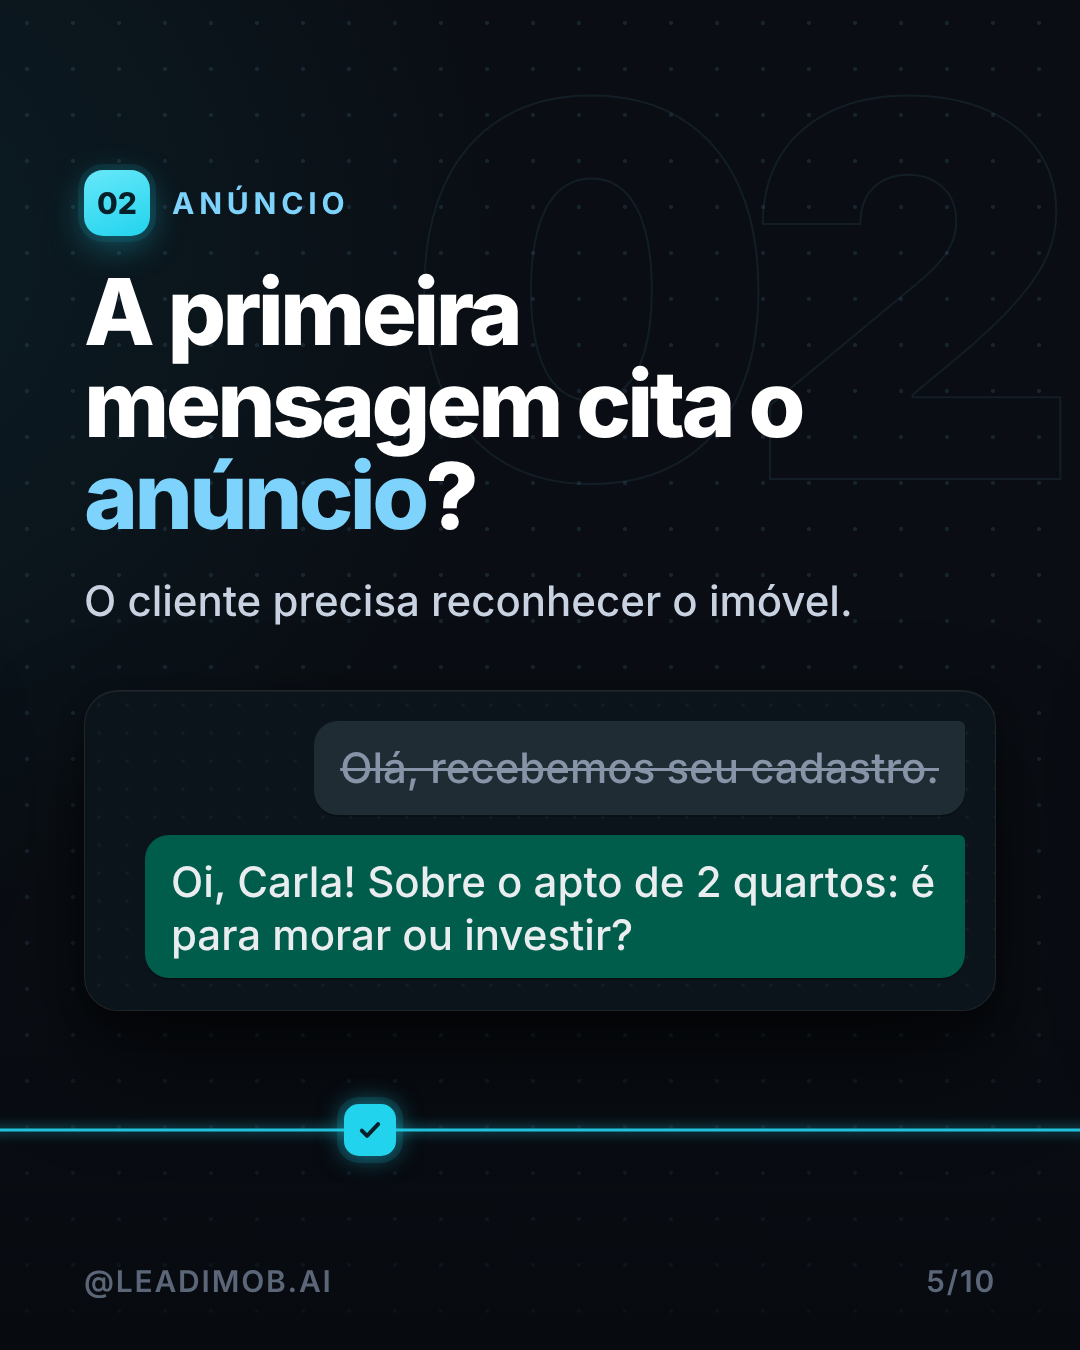
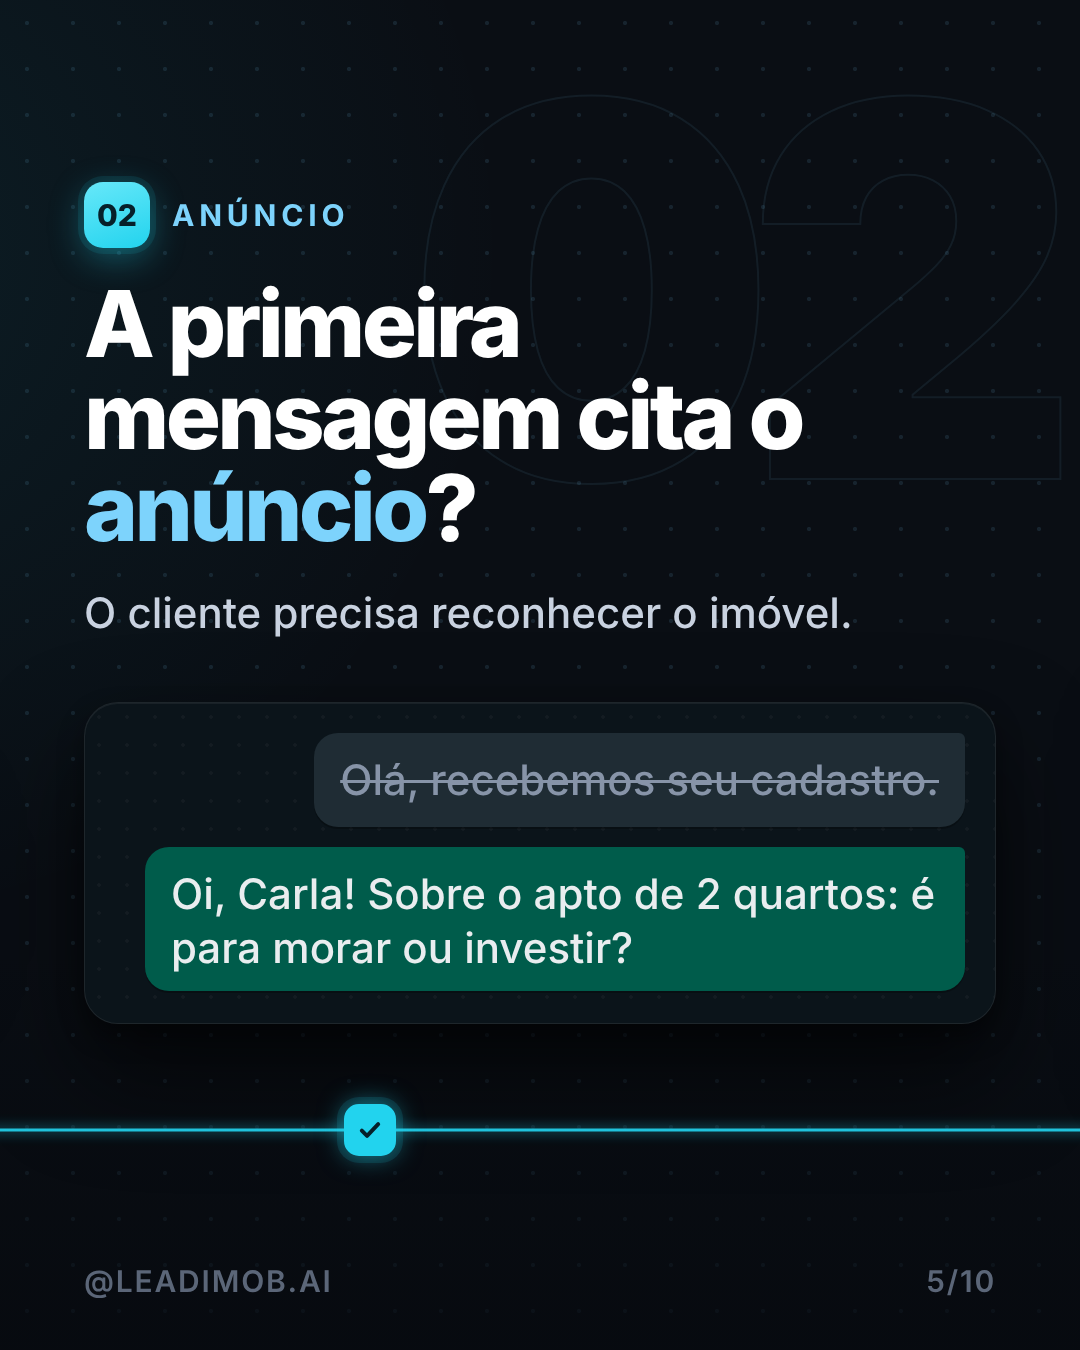
10/10: carrossel centralizado (em crítica final)
Claude-Session: https://claude.ai/code/session_016a8cwUDTswJAyhXi9pdNNX

Changed region(s): [[0.1222, 0.5289, 0.8861, 0.7467], [0.0611, 0.1244, 0.7639, 0.4044], [0.0611, 0.4356, 0.7944, 0.4667]]

diff --git a/instagram/2026-10-10/src/c1-index.html b/instagram/2026-10-10/src/c1-index.html
@@ -189,7 +189,7 @@ body{background:#0A0E14;width:10800px;height:1350px;overflow:hidden;font-family:
  <div class="foot"><span>@LEADIMOB.AI</span><span>3/10</span></div></div>
 
 <!-- 4 checagem 1 -->
-<div class="sl" style="left:3240px;justify-content:flex-start;padding-top:170px"><div class="ghost" style="-webkit-text-stroke-color:rgba(125,211,252,.08)">01</div>
+<div class="sl" style="left:3240px;padding:96px 84px 240px"><div class="ghost" style="-webkit-text-stroke-color:rgba(125,211,252,.08)">01</div>
  <div class="ttl"><div class="num">01</div><div class="kick">aviso</div></div>
  <div class="h2">Alguém fica sabendo <span class="hl">na hora</span>?</div>
  <div class="p">Formulário enviado vira aviso no celular, não planilha para baixar depois.</div>
@@ -202,7 +202,7 @@ body{background:#0A0E14;width:10800px;height:1350px;overflow:hidden;font-family:
 <div class="gate" style="left:3440px"><i><svg width="28" height="28" viewBox="0 0 24 24"><path d="M5 12.500l4.500 4.500L19 7" stroke="#06202A" stroke-width="3.4" fill="none" stroke-linecap="round" stroke-linejoin="round"/></svg></i></div>
 
 <!-- 5 checagem 2 -->
-<div class="sl" style="left:4320px;justify-content:flex-start;padding-top:170px"><div class="ghost" style="-webkit-text-stroke-color:rgba(125,211,252,.08)">02</div>
+<div class="sl" style="left:4320px;padding:96px 84px 240px"><div class="ghost" style="-webkit-text-stroke-color:rgba(125,211,252,.08)">02</div>
  <div class="ttl"><div class="num">02</div><div class="kick">anúncio</div></div>
  <div class="h2">A primeira mensagem cita o <span class="hl">anúncio</span>?</div>
  <div class="p">O cliente precisa reconhecer o imóvel.</div>
@@ -214,7 +214,7 @@ body{background:#0A0E14;width:10800px;height:1350px;overflow:hidden;font-family:
 <div class="gate" style="left:4690px"><i><svg width="28" height="28" viewBox="0 0 24 24"><path d="M5 12.500l4.500 4.500L19 7" stroke="#06202A" stroke-width="3.4" fill="none" stroke-linecap="round" stroke-linejoin="round"/></svg></i></div>
 
 <!-- 6 checagem 3 -->
-<div class="sl" style="left:5400px;justify-content:flex-start;padding-top:170px"><div class="ghost" style="-webkit-text-stroke-color:rgba(125,211,252,.08)">03</div>
+<div class="sl" style="left:5400px;padding:96px 84px 240px"><div class="ghost" style="-webkit-text-stroke-color:rgba(125,211,252,.08)">03</div>
  <div class="ttl"><div class="num">03</div><div class="kick">horário</div></div>
  <div class="h2">Alguém responde às <span class="hl">22h</span>?</div>
  <div class="p">O formulário chega quando o cliente tem tempo: à noite, no fim de semana.</div>
@@ -228,7 +228,7 @@ body{background:#0A0E14;width:10800px;height:1350px;overflow:hidden;font-family:
 <div class="gate" style="left:5940px"><i><svg width="28" height="28" viewBox="0 0 24 24"><path d="M5 12.500l4.500 4.500L19 7" stroke="#06202A" stroke-width="3.4" fill="none" stroke-linecap="round" stroke-linejoin="round"/></svg></i></div>
 
 <!-- 7 checagem 4 -->
-<div class="sl" style="left:6480px;justify-content:flex-start;padding-top:170px"><div class="ghost" style="-webkit-text-stroke-color:rgba(125,211,252,.08)">04</div>
+<div class="sl" style="left:6480px;padding:96px 84px 240px"><div class="ghost" style="-webkit-text-stroke-color:rgba(125,211,252,.08)">04</div>
  <div class="ttl"><div class="num">04</div><div class="kick">perguntas</div></div>
  <div class="h2">Alguém pergunta <span class="hl">antes</span> de mandar imóveis?</div>
  <div class="p">As respostas dizem o que vale enviar.</div>
@@ -242,7 +242,7 @@ body{background:#0A0E14;width:10800px;height:1350px;overflow:hidden;font-family:
 <div class="gate" style="left:7190px"><i><svg width="28" height="28" viewBox="0 0 24 24"><path d="M5 12.500l4.500 4.500L19 7" stroke="#06202A" stroke-width="3.4" fill="none" stroke-linecap="round" stroke-linejoin="round"/></svg></i></div>
 
 <!-- 8 checagem 5 -->
-<div class="sl" style="left:7560px;justify-content:flex-start;padding-top:170px"><div class="ghost" style="-webkit-text-stroke-color:rgba(125,211,252,.08)">05</div>
+<div class="sl" style="left:7560px;padding:96px 84px 240px"><div class="ghost" style="-webkit-text-stroke-color:rgba(125,211,252,.08)">05</div>
  <div class="ttl"><div class="num">05</div><div class="kick">dono</div></div>
  <div class="h2">Cada lead tem <span class="hl">dono</span> e próximo passo?</div>
  <div class="p">Sem isso, ele volta para a planilha.</div>
